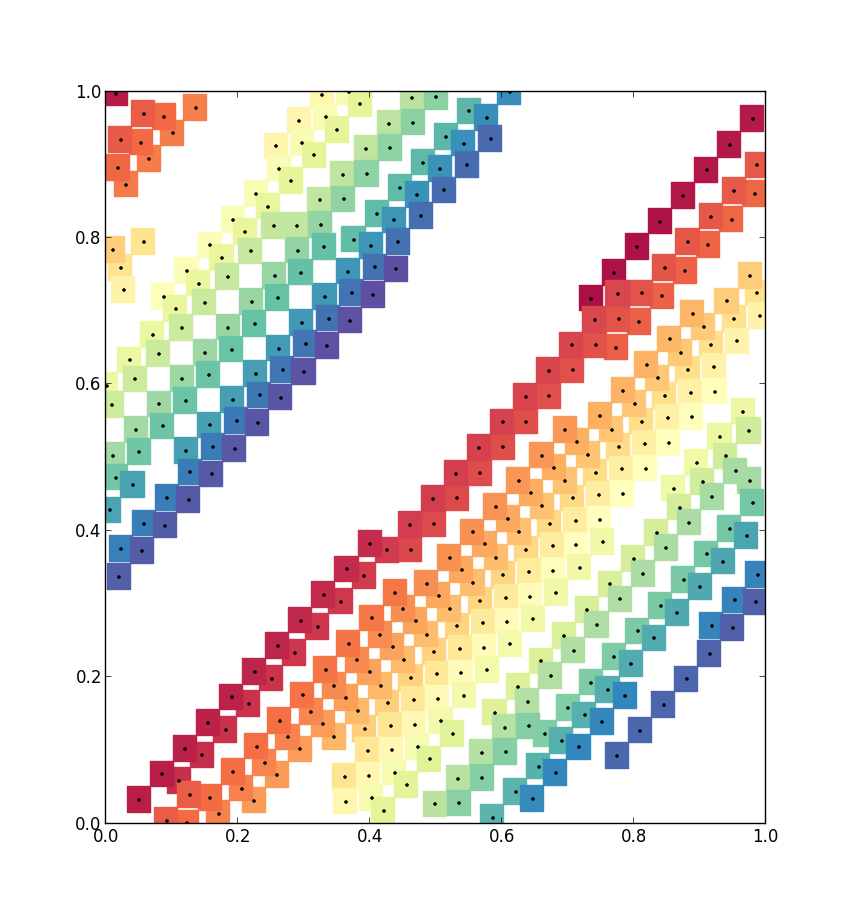
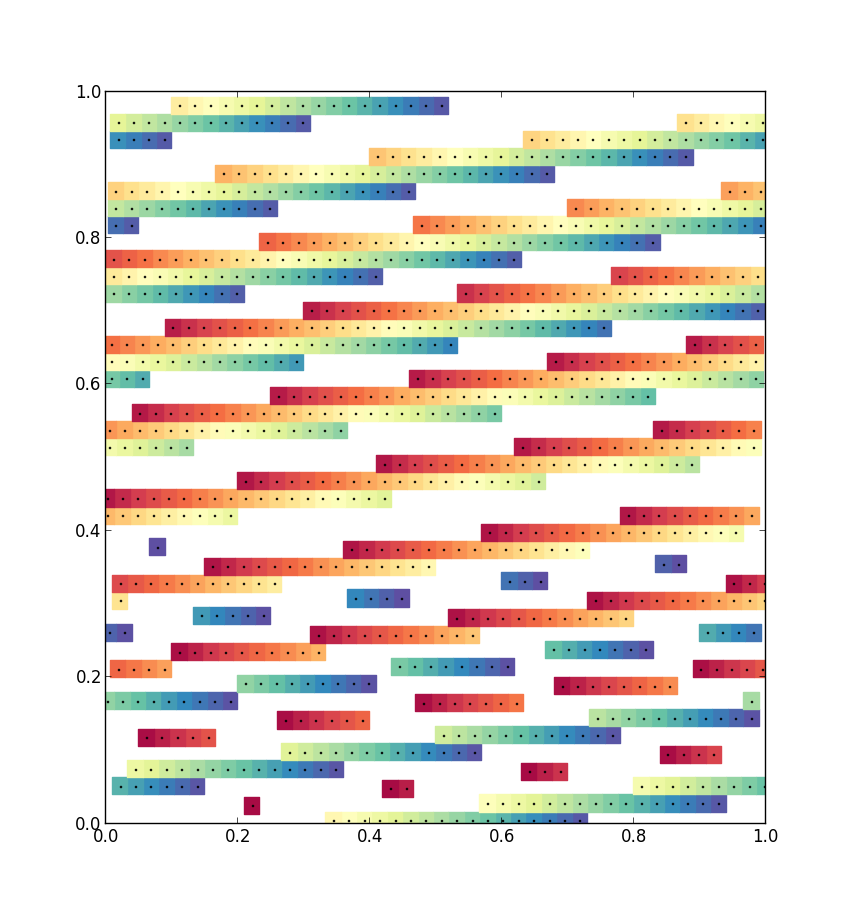
images

diff --git a/22555/sections/shapes.tex b/22555/sections/shapes.tex
@@ -66,28 +66,29 @@ is one.
 Therefore, the parametrized Arnold's map is area-preserving.
 \begin{figure}[t]
   \centering
-  \includegraphics[width=0.6\textwidth]{square049_400}
+  \includegraphics[width=0.6\textwidth]{square_049_900}
   \caption{A square $A = 0.49$ (i.e. the length of each edge is 0.7). Each square consists of patches. This square, for instance, consists of 400 patches, each represented with different colors.}
   \label{fig:square}
 \end{figure}
 The cat map stretches and folds the domain, and as a result, it produces thin strips.
 The parameter $k$ determines the thickness of the strips.
-The higher the value of $k$, the thinner the strips are~\ref{fig:catmap_demo}.
+The higher the value of $k$, the thinner the strips are (Fig.~\ref{fig:catmap_demo1}).
 \begin{figure}[t]
   \centering
-  \includegraphics[width=0.4\textwidth]{catmap_05}
+  \includegraphics[width=0.4\textwidth]{catmap_1-5}
   \hspace{2cm}
   \includegraphics[width=0.4\textwidth]{catmap_3}
-  \caption{Cat Map. left: $k=0.5$; right: $k = 3$. After one iteration. 
-    Colors of the patches correspond to those in~\ref{fig:square}.
-    The one with greater $k$ splits the square region into thinner strips.
+  \caption{Cat Map. left: $k=1.5$; right: $k = 3$. After one iteration. 
+    Colors of the patches correspond to those in (Fig.~\ref{fig:square}).
+    The one with greater $k$ tends to stretch the square to the $x$-direction, and splits the square region into thinner strips.
   }
   \label{fig:catmap_demo1}
 \end{figure}
 
 Although, $k$ can be any real number, parameters $k_0$ and its negative $-k_0$ result in effectively the same transformation, since the mapped images would be symmetric about the origin, and we take modulus 1 of the points.
 Thus, we can only use $k \in \mathbb{R}^+$ without losing shapes in the solution space.
-Furthermore, we will use $k \leq 10$, because, in a simulation using a limited precision, $k\geq 10$ does not give rise to appreciably different shapes~\ref{fig:catmap_demo2}.
+Also, the cat map would tend to stretch the unit square to the $x$-direction for greater $k$.
+We will use $k \leq 10$, because, in a simulation using a limited precision, $k\geq 10$ does not give rise to appreciably different shapes (Fig.~\ref{fig:catmap_demo2}).
 
 \begin{figure}[t]
   \centering
@@ -95,28 +96,69 @@ Furthermore, we will use $k \leq 10$, because, in a simulation using a limited p
   \hspace{2cm}
   \includegraphics[width=0.4\textwidth]{catmap_30}
   \caption{Cat Map. left: $k=10$; right: $k = 30$. After one iteration. 
-    Although the two images are not exactly the same, the differences seem not to be significant.
+    Although the two images are not exactly the same, the differences seem not to be significant from a qualitative point of view.
   }
   \label{fig:catmap_demo2}
 \end{figure}
 
 \subsection{The Kick Map}
-The other area-preserving chaotic map that we employ, the \textit{kick map}, is usually called the Chirikov's Standard Map. \citep{ott}.
+The other area-preserving chaotic map that we employ, the \textit{kick map}, is usually called the Chirikov's Standard Map \citep{ott}.
+Qualitatively, the kick map \textit{swirls} a shape, a complementary action of the cat map, which stretches a shape into thin strips.
+The kick map is defined as:
 \begin{align*}
-  y \mapsto y + k \sin x \mbox{ (mod $2\pi$)}
-  x \mapsto x + y \mbox{ (mod $2\pi$)},
+  y &\mapsto y + k \sin x \mbox{ (mod $2\pi$)} \\
+  x &\mapsto x + y \mbox{ (mod $2\pi$)},
 \end{align*}
 where updates of $y$ and $x$ are done asyncronously ($y$ first).
-While we would like to apply the kick map to the unit square, the kick map is a function from $[0,2\pi] \times [0,2\pi]$ to the same region.
+The effects of the cat map is stronger for higher value of $k$ (Fig.~\ref{fig:kickmap_demo1}).
+%
+\begin{figure}[t]
+  \centering
+  \includegraphics[width=0.4\textwidth]{kickmap_10}
+  \hspace{2cm}
+  \includegraphics[width=0.4\textwidth]{kickmap_30}
+  \caption{The kick map. left: $k=10$; right: $k = 30$. After one iteration. 
+    Although the two images are not exactly the same, the differences seem not to be significant.
+  }
+  \label{fig:kickmap_demo1}
+\end{figure}
+%
+As $k$ approaches $1$, the kick map becomes more and more chaotic.
+It is known that the chaotic border is 0.971635... \citep{spedia}.
+
+\begin{figure}[t]
+  \centering
+  \includegraphics[width=0.4\textwidth]{kickmap_2pi}
+  \hspace{2cm}
+  \includegraphics[width=0.4\textwidth]{kickmap_3pi}
+  \caption{The kick map. left: $k=10$; right: $k = 30$. After one iteration. 
+    Although the two images are not exactly the same, the differences seem not to be significant.
+  }
+  \label{fig:kickmap_demo2}
+\end{figure}
+
+Although we would like to apply the kick map to the unit square, the original kick map is a function from $[0,2\pi] \times [0,2\pi]$ to the same region.
 We use the following version of the kick map whose domain and image are the unit square:
 \begin{align*}
-  y \mapsto \pi + 2\pi y + k \sin (2\pi x) \mbox{ (mod $2\pi$)}
-  x \mapsto 2\pi (x + y) \mbox{ (mod $2\pi$)}.
+  y &\mapsto \frac{\pi + 2\pi y + k \sin (2\pi x)}{2\pi} \mbox{ (mod 1)}\\
+  x &\mapsto \frac{2\pi (x + y)}{2\pi} \mbox{ (mod 1)}.
 \end{align*}
-In plain words, the coordinates of each point in the unit square is scaled by $2\pi$ prior to the application of the original kick map.
+In plain words, the coordinates of each point in the unit square is scaled by $2\pi$ prior to the application of the original kick map, then scale the result by $1/2\pi$.
+Taking into account of the chaotic border ($k\approx 1$ in the original kick map), we take the range of $k$ to be $(0,2\pi)$.
+
+\subsection{Generation of Random Shapes}
+Iterate the unit square (Fig.~\ref{fig:square}) $0 \leq k \leq 10$ and $0 \leq k \leq 2\pi$
+\begin{figure}[t]
+  \centering
+  \includegraphics[width=0.4\textwidth]{chaotic_shape}
+  \caption{Another example of a square of area 0.64 after 128 random iterations of the cat map and kick map.
+  Most of time, random iterations will create a disorderly figure.
+  }
+  \label{fig:chaotic}
+\end{figure}
 
 \subsection{Computing the Boundary}
-As we saw in the previous sections, a shape generated by chaotic maps applied to a square is not necessarily a single piece.
+As we saw in the previous sections, a shape generated by chaotic maps applied to a square is not necessarily a single piece (Fig.~\ref{fig:chaotic}).
 We require a 
 
 \end{document}

diff --git a/22555/codes/ga_shapes.py b/22555/codes/ga_shapes.py
@@ -149,7 +149,7 @@ class Shape:
 
     # apply Cat Map
     def cat(self, param=2):
-        self.pts = vKick(self.pts, param)
+        self.pts = vCat(self.pts, param)
 
     # mutation: either Cat or Kick map
     def mutate(self):
@@ -291,10 +291,10 @@ def IterRand(init):
     rnum = random.randint(0,2) # generate 0 or 1
     if rnum==1:
         g = vCat
-        param = 5*random.random() # generate a parameter between 0 and 5
+        param = 10*random.random() # generate a parameter between 0 and 10
     else:
         g = vKick
-        param = random.random() # generate a parameter between 0 and 1
+        param = 2*sp.pi*random.random() # generate a parameter between 0 and 2pi
 
     return g(init,param)
 
